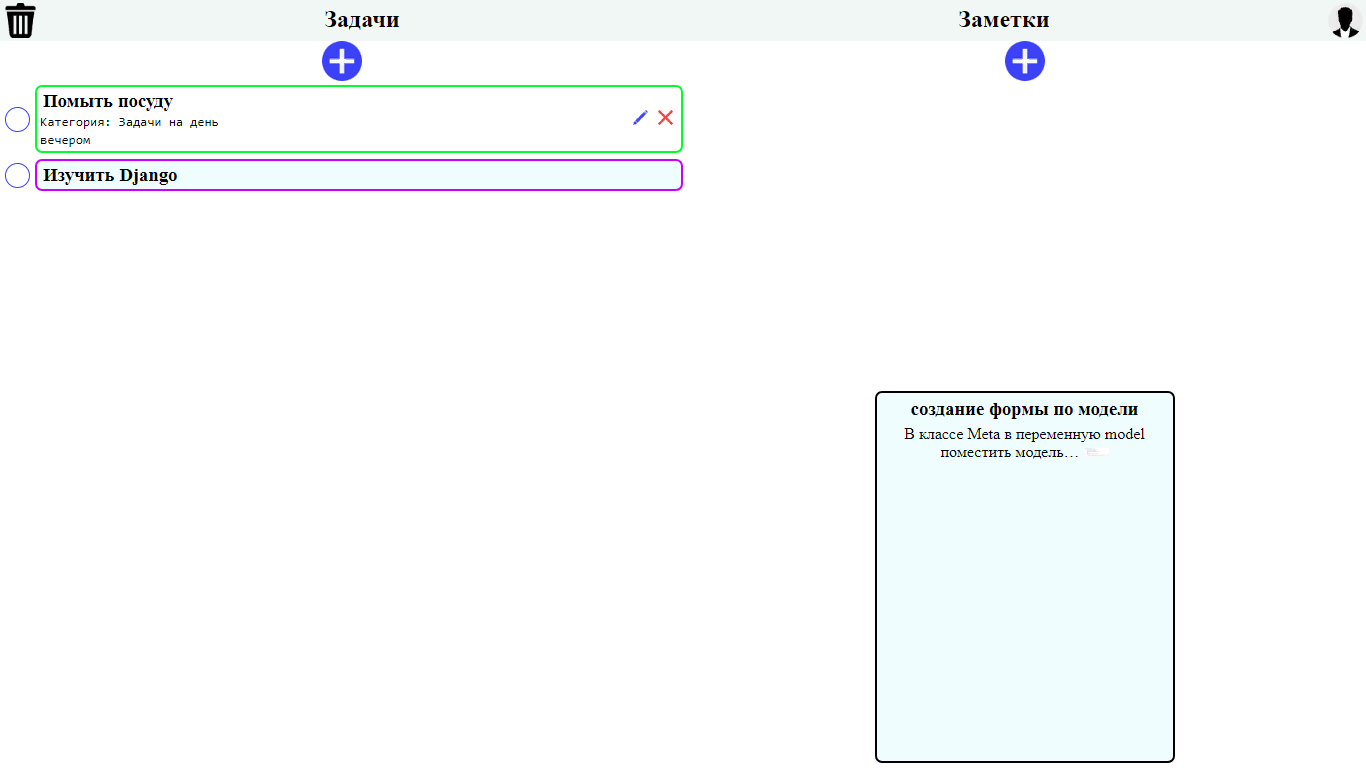
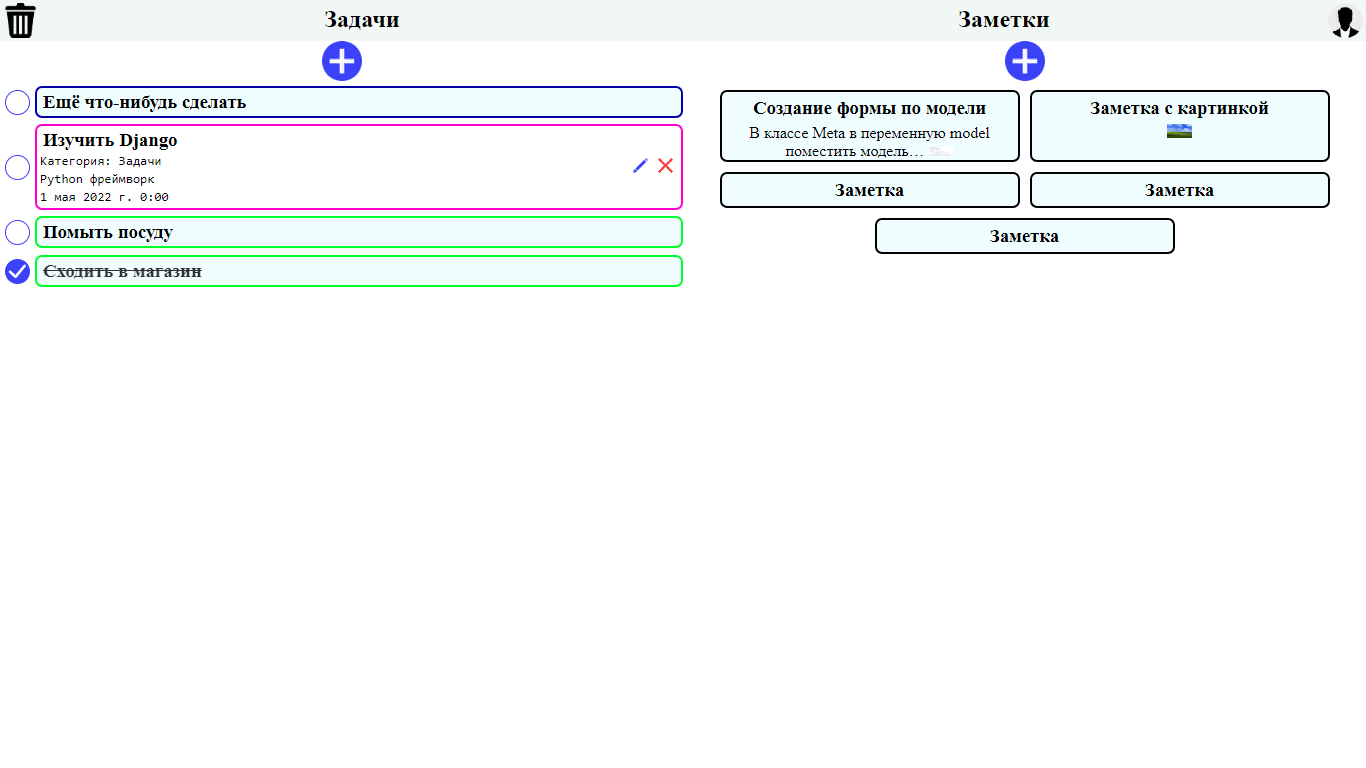
bug fix, добавлена возможность изменять существующую задачу

diff --git a/Django_tasks-and-notes/app/static/app/style.css b/Django_tasks-and-notes/app/static/app/style.css
@@ -37,7 +37,7 @@ main {
     margin-top: 50px
 }
 .add_el {
-    background-color: rgb(249, 255, 163);
+    background-color: #c8ffa3;
     height: 30px;
     font-size:larger;
     cursor: pointer;
@@ -61,7 +61,7 @@ main {
     background-color: #fff;
     content: attr(hover_text);
 }
-.note:hover .del_form {
+.note:hover .edit_form {
     display: inline-block;
 }
 .note:hover img {
@@ -109,7 +109,7 @@ main {
     width: 50%;
     justify-content: center;
     margin-top: 41px;
-    height: calc(100% - 41px);
+    max-height: calc(100% - 41px);
     float: right;
     overflow-y: scroll;
     text-align: center;
@@ -148,7 +148,7 @@ main {
 .task:hover {
     background-color: #fff;
 }
-.task:hover .del_form {
+.task:hover .edit_form {
     display: inline-block;
     align-self: center;
 }
@@ -177,6 +177,9 @@ main {
     border: 1px;
 }
 #add_task:target {
+    display: block;
+}
+#edit_task:target {
     display: block;
 }
 #btn_tasks {
@@ -214,7 +217,7 @@ main {
     text-decoration: line-through;
     opacity: 80%;
 }
-.del_form {
+.edit_form {
     display: none;
 }
 .btn_complete_task {
@@ -269,6 +272,29 @@ main {
     text-align: center;
     margin: auto;
     border: #000 solid 1px;
+}
+.edit_task {
+    position: absolute;
+    background-color: #fff;
+    left: 0; top: 20px;
+    right: 0; bottom: 0;
+    width: 90%;
+    /* min-height: 450px; */
+    height: 90%;
+    align-items: center;
+    text-align: center;
+    margin: auto;
+    border: #000 solid 1px;
+}
+.edit_task img {
+    vertical-align: middle;
+    cursor: pointer;
+}
+.edit_task input {
+    margin: 10px;
+}
+.edit_task button {
+    text-align: center;
 }
 .add img {
     vertical-align: middle;
@@ -345,6 +371,7 @@ header h2 {
 .center {
     text-align: center;
 }
-.width_100 {
+.btn_add_new_for_notes {
     width: 100%;
+    height: 44px;
 }

diff --git a/Django_tasks-and-notes/app/templates/app/add_task.html b/Django_tasks-and-notes/app/templates/app/add_task.html
@@ -1,3 +1,6 @@
+
+<!-- add_task отвечает как за добавление новой записи, так и за рекдактирование старой -->
+
 {% load static %}
 {% load app_tags %}
 <br>
@@ -13,8 +16,15 @@
         <img class="close_add_atr" onmousedown="closeAddDetailsTask()" src="{% static "app/images/close.png" %}" alt="закрыть"></div>    
     <div id="add_date_time">{{form.time}}{{form.date}}
         <img class="close_add_atr" onmousedown="closeAddDateTime()" src="{% static "app/images/close.png" %}" alt="закрыть"></div>
-    <input type="hidden" name="form_sel" value="add_task">
-    <input type="submit" name="" id="" value="Добавить" class="add_el">
+    
+    {% if edit %}
+    <a href="/">Отмена</a>
+        <input type="hidden" name="form_sel" value="edit_task">
+        <input type="submit" name="" id="" value="Изменить" class="add_el">
+    {% else %}
+        <input type="hidden" name="form_sel" value="add_task">
+        <input type="submit" name="" id="" value="Добавить" class="add_el">
+    {% endif %}
 </form></div>
 <div id="add_new_category">
 <form action="" method="post">

diff --git a/Django_tasks-and-notes/app/templates/app/tasks.html b/Django_tasks-and-notes/app/templates/app/tasks.html
@@ -21,7 +21,7 @@
             <tt>
             Категория: {{task.category}}<br>{{task.details}}<br>
             {% if task.date %}
-            {{task.date|naturalday}}
+                {{task.date|naturalday}}
             {% endif %}
             {% if task.time %}
                 {{task.time}} 
@@ -29,13 +29,13 @@
             </tt>
         </div>
         <div class='menu_for_task'>
-            <form class="del_form" method="post">
+            <form class="edit_form" method="post">
                 {% csrf_token %}
                 <input type="hidden" name="form_sel" value="edit_task">
                 <input type="hidden" name="task_id" value="{{task.pk}}">
                 <input type="submit" value="" style="background-image: url({% static 'app/images/edit.png' %});" class="btn_task_del">
             </form>
-            <form class="del_form" method="post">
+            <form class="edit_form" method="post">
                 {% csrf_token %}
                 <input type="hidden" name="form_sel" value="del_task">
                 <input type="hidden" name="task_id" value="{{task.pk}}">

diff --git a/Django_tasks-and-notes/app/templates/app/add_note.html b/Django_tasks-and-notes/app/templates/app/add_note.html
@@ -1,11 +1,11 @@
 <div>
-<form action="" method="post" enctype="multipart/form-data">
-    {% csrf_token %}
-    {{form.title}}<br>
-    {{form.details}}<br>
-    Цвет заметки  {{form.color}}<br>
-    Изображение {{form.image}}<br>
-    <input type="hidden" name="form_sel" value="add_note">
-    <input type="submit" class="add_el" value="Добавить">
-</form>
+    <form action="" method="post" enctype="multipart/form-data">
+        {% csrf_token %}
+        {{form.title}}<br>
+        {{form.details}}<br>
+        Цвет заметки  {{form.color}}<br>
+        Изображение {{form.image}}<br>
+        <input type="hidden" name="form_sel" value="add_note">
+        <input type="submit" class="add_el" value="Добавить">
+    </form>
 </div>

diff --git a/Django_tasks-and-notes/app/templates/app/notes.html b/Django_tasks-and-notes/app/templates/app/notes.html
@@ -7,13 +7,13 @@
     {% if note.image %}
         <a target="_blank" href="{{note.image.url}}"><img class="note_img" src="{{note.image.url}}"></a>
     {% endif %}
-    <form class="del_form" method="post">
+    <form class="edit_form" method="post">
         {% csrf_token %}
         <input type="hidden" name="form_sel" value="eidt_note">
         <input type="hidden" name="note_id" value="{{note.pk}}">
         <input type="submit" value="" style="background-image: url({% static 'app/images/edit.png' %});" class="btn_note_del">
     </form>
-    <form class="del_form" method="post">
+    <form class="edit_form" method="post">
         {% csrf_token %}
         <input type="hidden" name="form_sel" value="del_note">
         <input type="hidden" name="note_id" value="{{note.pk}}">

diff --git a/Django_tasks-and-notes/app/templates/app/home.html b/Django_tasks-and-notes/app/templates/app/home.html
@@ -30,7 +30,7 @@
     {% tasks_tag %}
 </section>
 <section id="notes">
-    <div class="width_100 center"><a href="#add_note"><img src="{% static "app/images/plus.png" %}" alt="добавить заметку" width="40"></a></div>
+    <div class="btn_add_new_for_notes center"><a href="#add_note"><img src="{% static "app/images/plus.png" %}" alt="добавить заметку" width="40"></a></div>
     {% notes_tag %}
 </div>
 </section>

diff --git a/Django_tasks-and-notes/app/templates/app/edit_task.html b/Django_tasks-and-notes/app/templates/app/edit_task.html
@@ -1,0 +1,10 @@
+{% extends "app/base.html" %}
+{% load static %}
+{% load app_tags %}
+
+{% block content %}
+<div class="edit_task">
+<br>
+{% add_task_tag edit=True task_id=task_id %}
+</div>
+{% endblock %}

diff --git a/Django_tasks-and-notes/app/templates/app/deleted.html b/Django_tasks-and-notes/app/templates/app/deleted.html
@@ -12,7 +12,7 @@
     {% deleted_categories_tasks_tag %}
 </section>
 <section id="deleted_notes">
-    {% notes_tag %}
+    {% deleted_notes_tag %}
 </section>
 
 {% endblock %}

diff --git a/Django_tasks-and-notes/app/forms.py b/Django_tasks-and-notes/app/forms.py
@@ -11,7 +11,7 @@ class NewTask(forms.ModelForm):
         self.fields['category'].empty_label = None
     class Meta:
         model = Tasks
-        fields = ['title', 'details', 'category']
+        fields = ['title', 'details', 'category', 'date', 'time']
         widgets = {
             'title': forms.TextInput(attrs={'class': 'title_in', 'placeholder': 'Задача'}),
             'details': forms.Textarea(attrs={'placeholder': 'Текст'})
@@ -20,6 +20,16 @@ class NewTask(forms.ModelForm):
     date = forms.DateField(widget=forms.DateInput(attrs={'type': 'date'}), required=False)
     category = forms.ModelChoiceField(widget=forms.Select(attrs={'class': 'category_in'}),  queryset=CategoriesTasks.objects.filter(deleted=False))
     
+    def edit_task(self, task_id):
+        if self.is_valid():
+            data = self.cleaned_data
+            task = Tasks.objects.get(pk=task_id)
+            task.title = data['title']
+            task.details = data['details']
+            task.category = data['category']
+            task.date = data['date']
+            task.time = data['time']
+            task.save()
 
 
 
@@ -33,6 +43,10 @@ class NewCategory(forms.Form):
         model.save()
 
 class NewNote(forms.ModelForm):
+    def __init__(self, *args, **kwargs):
+        super().__init__(*args, **kwargs)
+        self.fields['details'].required = False
+        self.fields['image'].required = False
     color = forms.CharField(widget=forms.TextInput(attrs={'type': 'color'}))
     class Meta:
         model = Notes
@@ -41,7 +55,6 @@ class NewNote(forms.ModelForm):
             'title': forms.TextInput(attrs={'class': 'title_in', 'placeholder': 'Заметка'}),
             'details': forms.Textarea(attrs={'placeholder': 'Текст'})
         }
-
 
 class LoginUser(forms.Form):
     login = forms.EmailField()

diff --git a/Django_tasks-and-notes/app/templatetags/app_tags.py b/Django_tasks-and-notes/app/templatetags/app_tags.py
@@ -21,11 +21,30 @@ def notes_tag(context):
     context['notes'] = Notes.objects.all().order_by('-pk').filter(deleted=False)
     return context
 
+@register.inclusion_tag('app/notes.html', takes_context=True)
+def deleted_notes_tag(context):
+    context['notes'] = Notes.objects.all().order_by('-pk').filter(deleted=True)
+    return context
+
 @register.inclusion_tag('app/add_task.html', takes_context=True)
-def add_task_tag(context):
-    context['form'] = NewTask
+def add_task_tag(context, edit=False, task_id=None):
+    context['form'] = NewTask()
+    if edit == True:
+        title = Tasks.objects.get(pk=task_id).title
+        details = Tasks.objects.get(pk=task_id).details
+        category = Tasks.objects.get(pk=task_id).category
+        date = Tasks.objects.get(pk=task_id).date
+        time = Tasks.objects.get(pk=task_id).time
+        context['form'] = NewTask({
+            'title': title,
+            'details': details,
+            'category': category,
+            'date': date,
+            'time': time
+            })
     context['form_new_cat'] = NewCategory
     context['categories'] = CategoriesTasks.objects.all().filter(deleted = False)
+    context['edit'] = edit
     return context
 
 @register.inclusion_tag('app/add_note.html', takes_context=True)

diff --git a/Django_tasks-and-notes/app/views.py b/Django_tasks-and-notes/app/views.py
@@ -37,6 +37,8 @@ def home(request):
             task = Tasks.objects.get(pk=request.POST.get('task_id'))
             task.deleted = True
             task.save()
+        elif form_sel == 'edit_task':
+            return redirect('/edit_task/' + request.POST.get('task_id'))
         elif form_sel =='del_note':
             note = Notes.objects.get(pk=request.POST.get('note_id'))
             note.deleted = True
@@ -44,12 +46,21 @@ def home(request):
         elif form_sel == 'eidt_note':
             note = Notes.objects.get(pk=request.POST.get('note_id'))
             return redirect('/#add_note')
-    return render(request, 'app/home.html')
+    return render(request, 'app/home.html', {'edit_task': False})
 
 
 def deleted(request):
     return render(request, 'app/deleted.html')
 
+def edit_task(request, task_id):
+    if request.POST:
+        form_sel = request.POST.get('form_sel')
+        if form_sel == 'edit_task':
+            form = NewTask(request.POST)
+            form.edit_task(task_id=task_id)
+            return redirect('/')
+
+    return render(request, 'app/edit_task.html', {'edit_task': True, 'task_id': task_id})
 
 
 class register:

diff --git a/Django_tasks-and-notes/app/urls.py b/Django_tasks-and-notes/app/urls.py
@@ -3,6 +3,7 @@ from .views import *
 
 urlpatterns = [
     path('', home, name='home'),
+    path('edit_task/<int:task_id>/', edit_task, name='edit_task'),
     path('del/', deleted, name='deleted'),
     path('register/', register, name='register')
 ]
